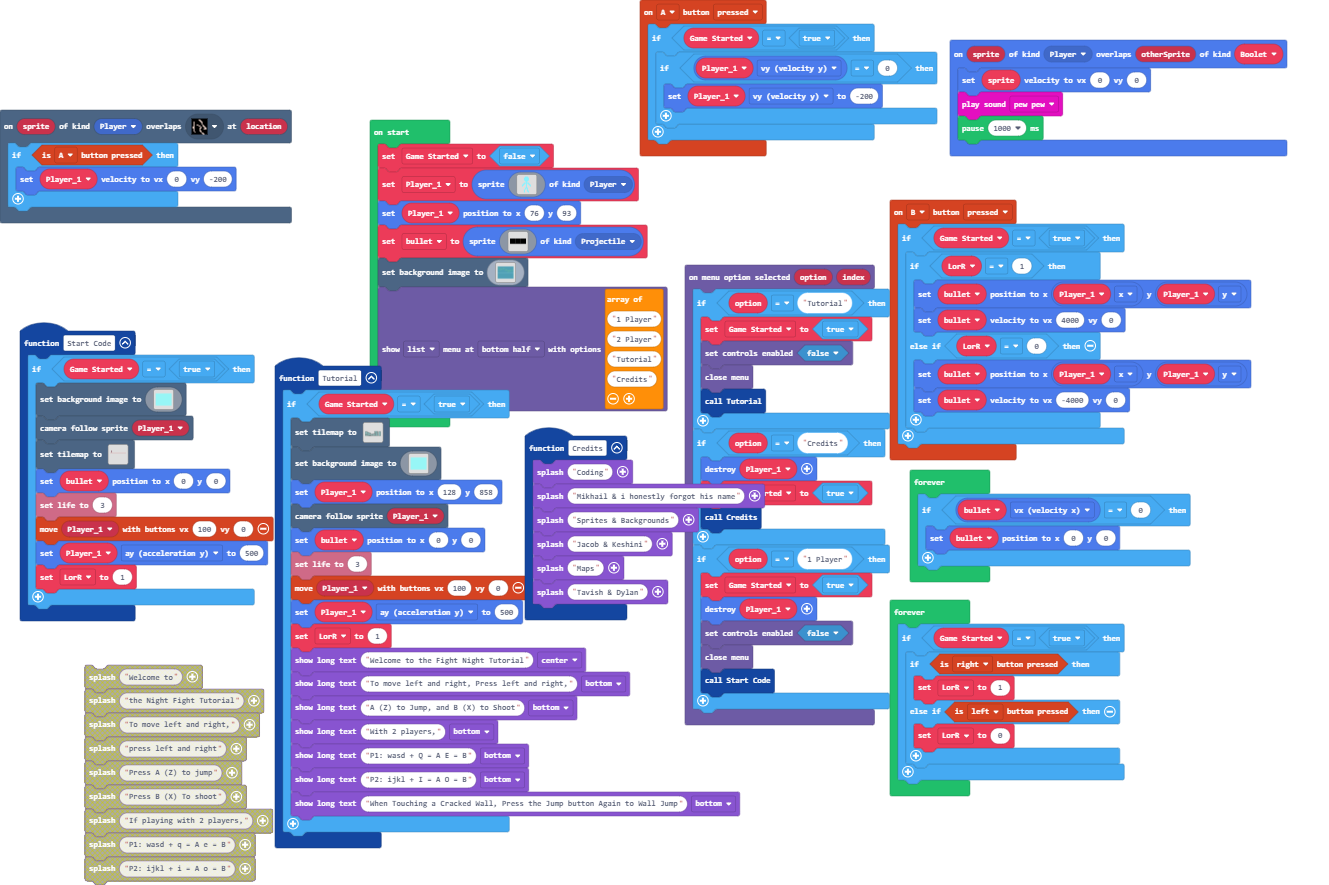
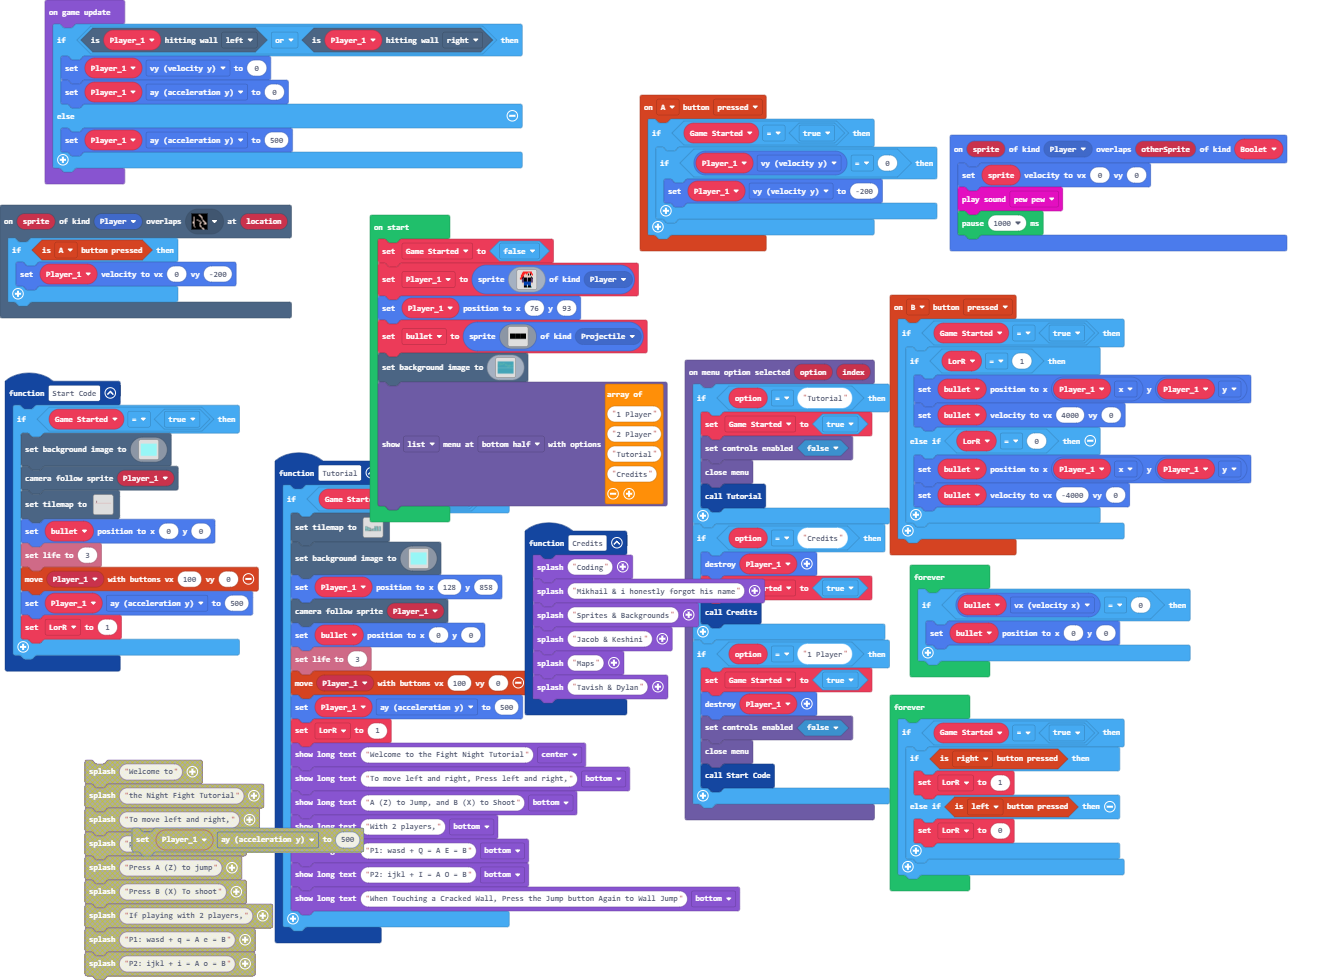
Sprite change and wall jump

diff --git a/main.ts b/main.ts
@@ -335,22 +335,22 @@ let Player_1: Sprite = null
 let Game_Started = false
 Game_Started = false
 Player_1 = sprites.create(img`
-    . . . . . . 9 9 9 . . . . . . . 
-    . . . . . 9 9 9 9 9 . . . . . . 
-    . . . . . 9 9 9 9 9 . . . . . . 
-    . . . . . 9 9 9 9 9 . . . . . . 
-    . . . . . . 9 9 9 . . . . . . . 
-    . . . . . . . 9 . . . . . . . . 
-    . . . . . 9 9 9 9 9 . . . . . . 
-    . . . . 9 9 . 9 . 9 9 . . . . . 
-    . . . 9 9 . . 9 . . 9 9 . . . . 
-    . . . 9 . . . 9 . . . 9 . . . . 
-    . . . . . . . 9 . . . . . . . . 
-    . . . . . . 9 9 9 . . . . . . . 
-    . . . . . . 9 . 9 . . . . . . . 
-    . . . . . 9 . . 9 . . . . . . . 
-    . . . . . 9 . . 9 9 . . . . . . 
-    . . . . . 9 . . . 9 . . . . . . 
+    . . . . 2 2 2 2 2 2 2 2 2 . . . 
+    . . . 2 2 2 2 2 2 d d 2 2 . . . 
+    . . . 2 2 2 d 2 d f d f 2 2 . . 
+    . . 2 2 2 d d d d f d f d 2 . . 
+    . . 2 2 2 d d d d d d d d . . . 
+    . . 2 2 f d d d d d d d f . . . 
+    . 2 2 f c f f f b f f f c f . . 
+    . 2 2 c c f f f b f f f c c . . 
+    . . . c c f f f b f f f c c . . 
+    . . . c c f f f b f f f c c . . 
+    . . . c c 8 8 8 8 8 8 8 c c . . 
+    . . . d d 8 8 8 8 8 8 8 d d . . 
+    . . . d d 8 8 8 8 8 8 8 d d . . 
+    . . . . . 8 8 8 . 8 8 8 . . . . 
+    . . . . . f f f . f f f . . . . 
+    . . . . . f f f 6 f f f 6 . . . 
     `, SpriteKind.Player)
 Player_1.setPosition(76, 93)
 bullet = sprites.create(assets.image`Boolet`, SpriteKind.Projectile)
@@ -361,6 +361,14 @@ blockMenu.showMenu([
 "Tutorial",
 "Credits"
 ], MenuStyle.List, MenuLocation.BottomHalf)
+game.onUpdate(function () {
+    if (Player_1.isHittingTile(CollisionDirection.Left) || Player_1.isHittingTile(CollisionDirection.Right)) {
+        Player_1.vy = 0
+        Player_1.ay = 0
+    } else {
+        Player_1.ay = 500
+    }
+})
 forever(function () {
     if (bullet.vx == 0) {
         bullet.setPosition(0, 0)
